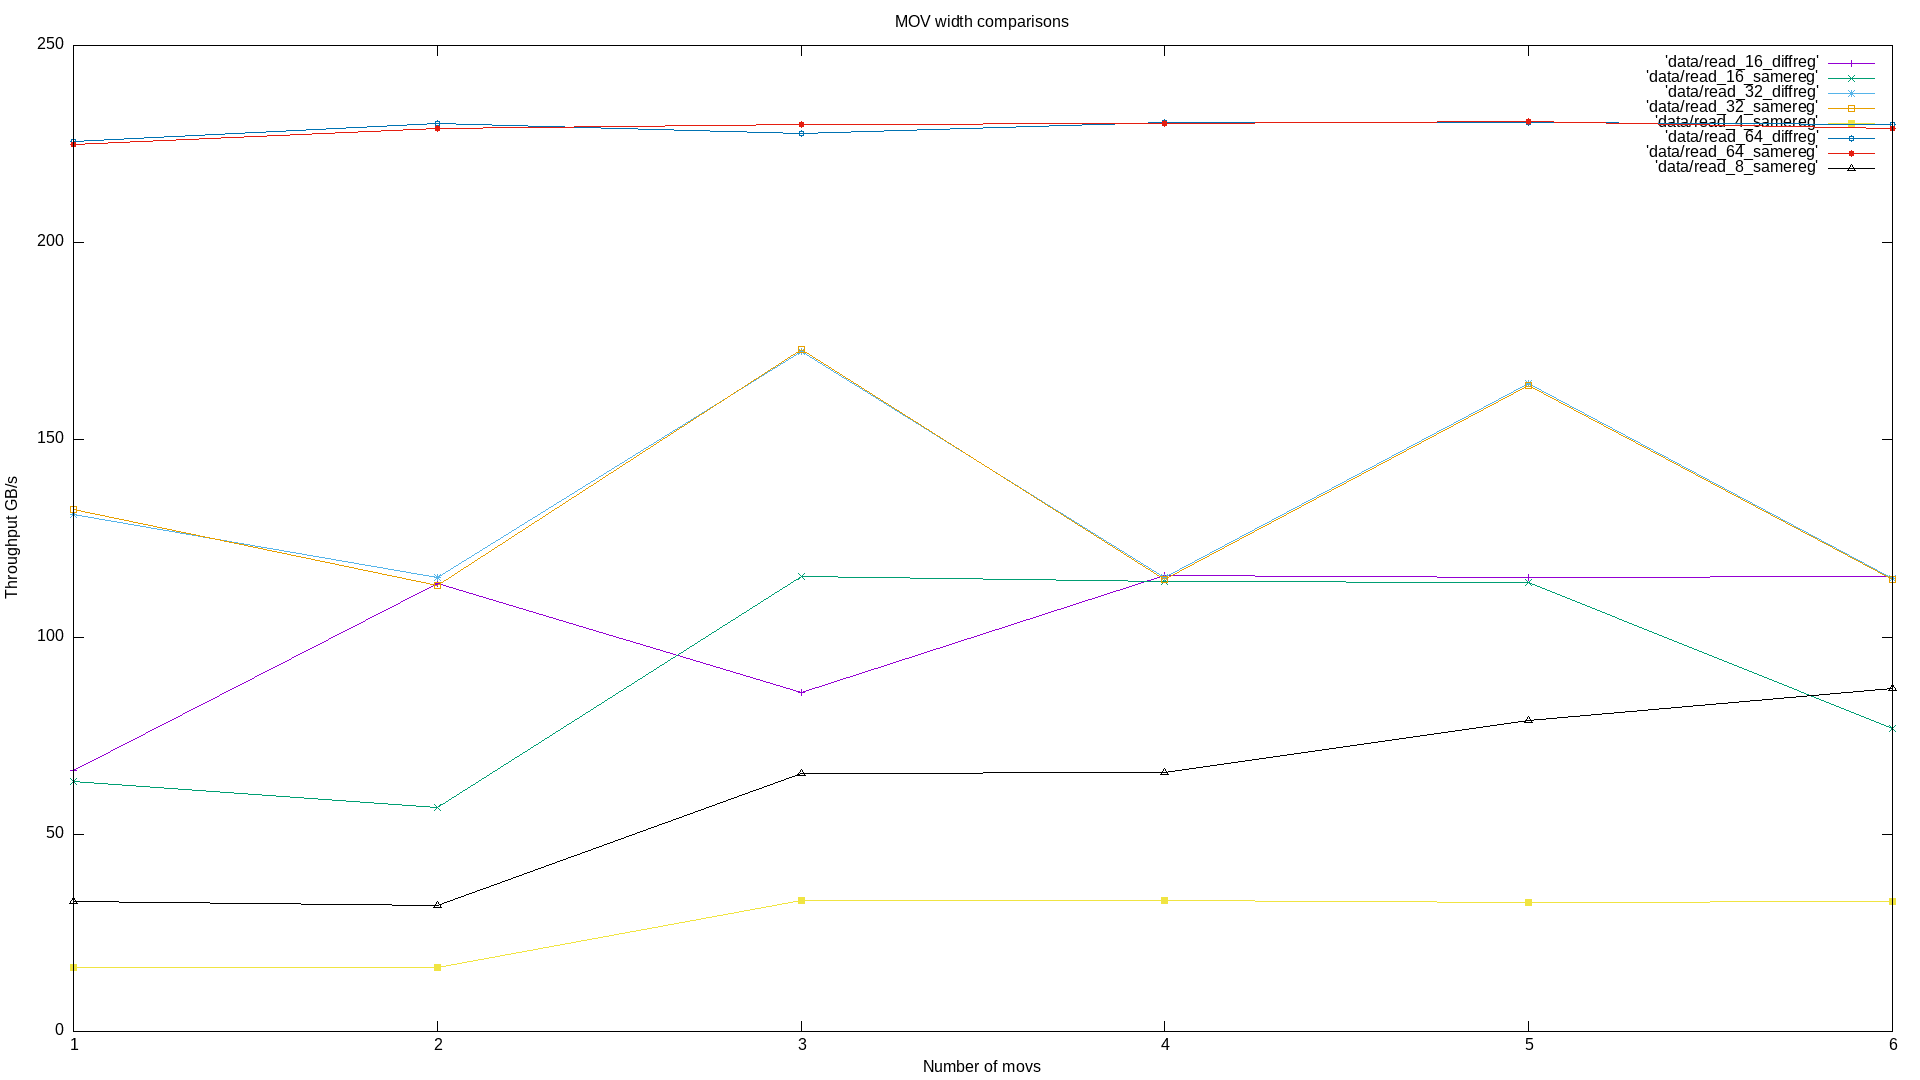
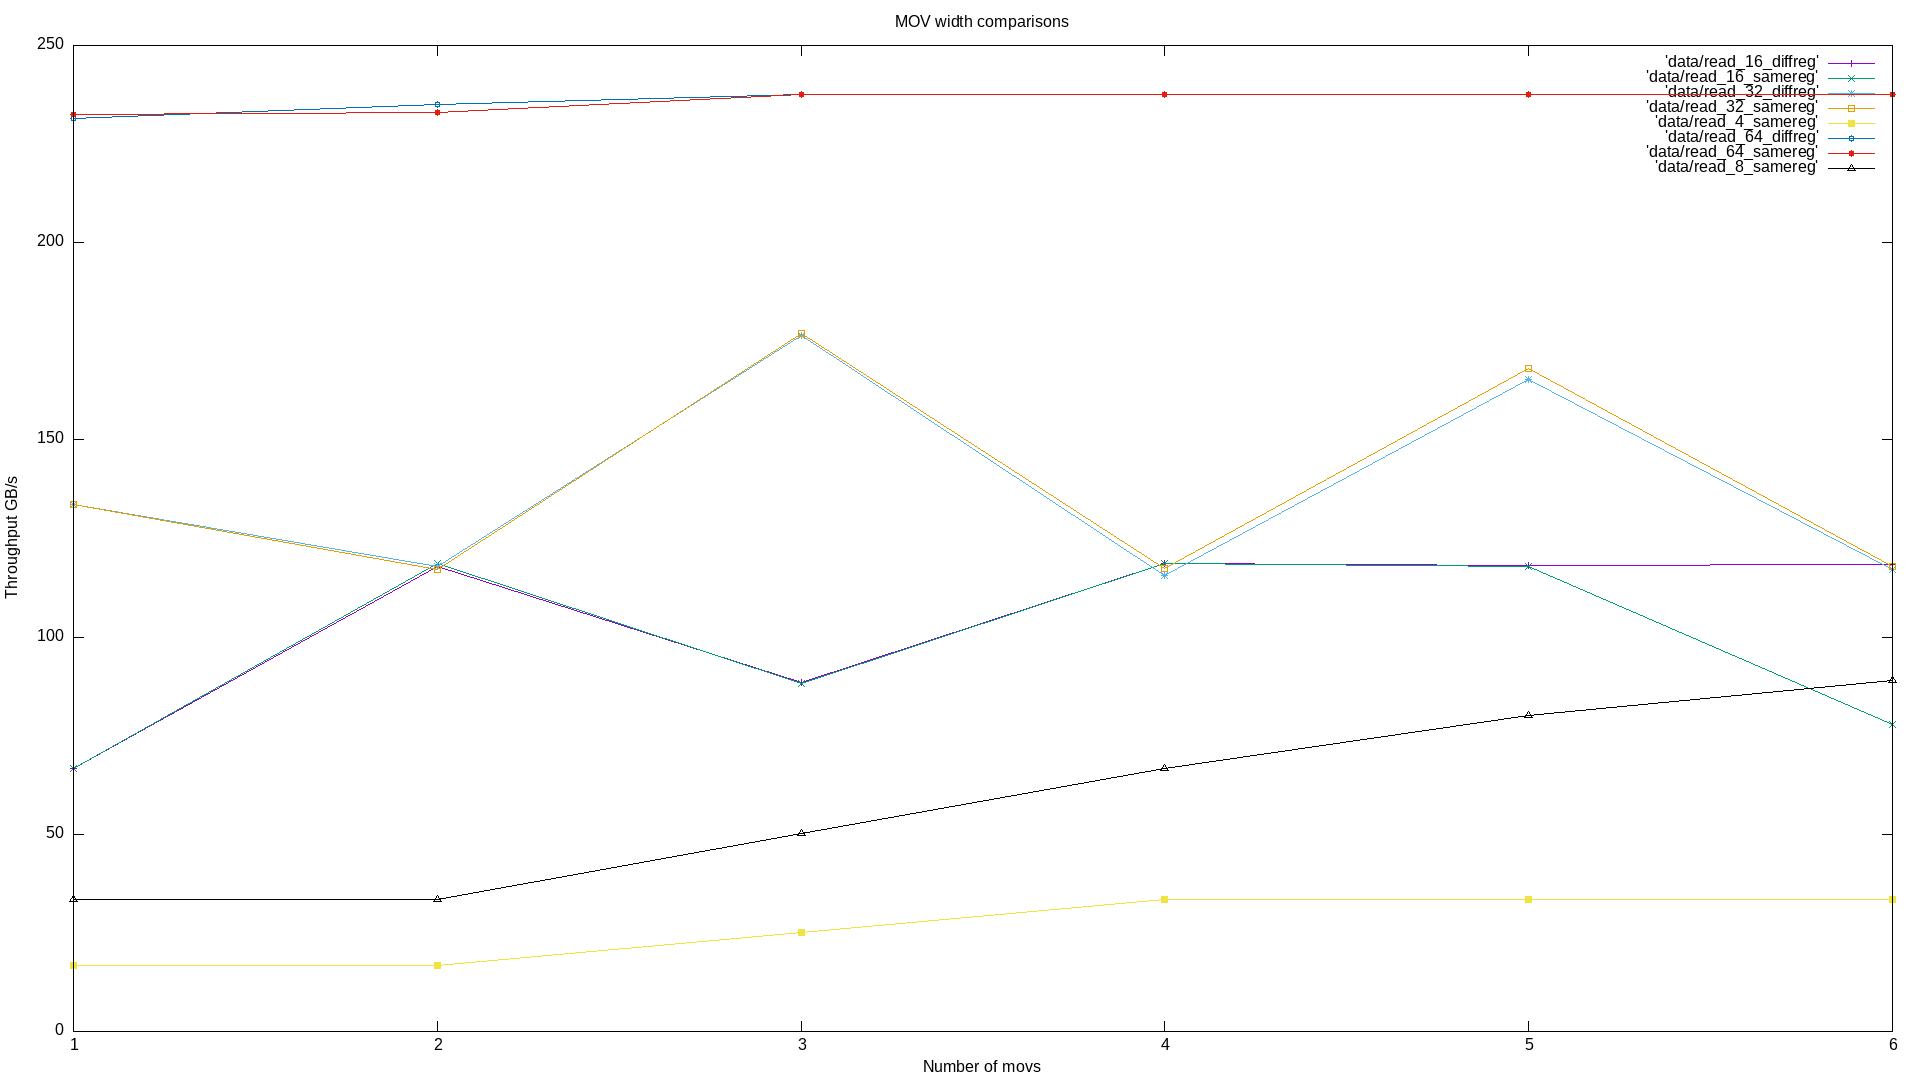
Update without using timeloop

diff --git a/03_cpu/mov_size_comparison/src/main.rs b/03_cpu/mov_size_comparison/src/main.rs
@@ -2,7 +2,7 @@
 
 use std::collections::HashMap;
 use std::path::Path;
-use std::time::Duration;
+use std::time::{Duration, Instant};
 
 use rand::Rng;
 use timeloop::RepititionTester;
@@ -17,10 +17,14 @@ pub struct TestParameters {
     pub count: u64,
 }
 
-fn main() {
-    let mut rng = rand::thread_rng();
+const ALLOC_SIZE: usize = 1024 * 1024 * 1024;
+const TEST_DURATION: Duration = Duration::from_millis(250);
 
-    const ALLOC_SIZE: usize = 1024 * 1024 * 1024;
+#[cfg(feature = "timeloop")]
+fn main() {
+    println!("Running WITH timeloop...");
+
+    let mut rng = rand::thread_rng();
 
     let mut buffer = vec![0_u8; ALLOC_SIZE];
     rng.fill(&mut buffer[..]);
@@ -33,7 +37,7 @@ fn main() {
         for (func, func_name) in FUNCS.iter() {
             println!("----- {:?} -----", func_name);
 
-            let mut tester = RepititionTester::new(Duration::from_millis(2000));
+            let mut tester = RepititionTester::new(TEST_DURATION);
 
             while tester.is_testing() {
                 // Start the timer for this iteration
@@ -57,8 +61,111 @@ fn main() {
 
             results.entry(heading).or_default().push_str(&format!(
                 "{num} {:8.2}\n",
-                res.avg.bytes_per_second.unwrap() / 1024. / 1024. / 1024.
+                res.min.bytes_per_second.unwrap() / 1024. / 1024. / 1024.
             ));
+        }
+    }
+
+    let mut plot = String::new();
+
+    plot.push_str("set terminal png size 1920,1080\n");
+    plot.push_str("set output 'data.png'\n");
+    plot.push_str("set title 'MOV width comparisons'\n");
+    plot.push_str("set xlabel 'Number of movs'\n");
+    plot.push_str("set ylabel 'Throughput GB/s'\n");
+    plot.push_str("set xtics (1, 2, 3, 4, 5, 6)\n");
+
+    plot.push_str("plot ");
+
+    // Create the data directory if it doesn't exist
+    let data_dir = Path::new("data");
+    if !data_dir.exists() {
+        std::fs::create_dir(&data_dir).expect("Failed to create data directory");
+    }
+
+    let mut plots = Vec::new();
+    for (name, res) in results {
+        let name = Path::new("data").join(name);
+        std::fs::write(&name, res).unwrap();
+
+        plots.push(format!(
+            "'{}' with linespoints",
+            name.as_os_str().to_str().unwrap()
+        ));
+    }
+
+    plots.sort();
+
+    plot.push_str(&plots.join(", \\\n"));
+    plot.push('\n');
+
+    // plot.push_str("pause -1\n");
+
+    std::fs::write("data.plot", plot).unwrap();
+}
+
+/// Calculate the OS frequency by timing a small timeout using `rdtsc`
+fn calculate_os_frequency() -> f64 {
+    let timeout = Duration::from_millis(100);
+    let start = Instant::now();
+    let clock_start = unsafe { core::arch::x86_64::_rdtsc() };
+    while start.elapsed() < timeout {}
+    let clock_end = unsafe { core::arch::x86_64::_rdtsc() };
+
+    (clock_end - clock_start) as f64 / timeout.as_secs_f64()
+}
+
+#[cfg(not(feature = "timeloop"))]
+fn main() {
+    println!("Running manual WITHOUT timeloop...");
+
+    let mut rng = rand::thread_rng();
+
+    const ALLOC_SIZE: usize = 1024 * 1024 * 1024;
+
+    let mut buffer = vec![0_u8; ALLOC_SIZE];
+    rng.fill(&mut buffer[..]);
+
+    let buffer = buffer;
+
+    let mut results: HashMap<&str, String> = HashMap::new();
+    let mut timers = [u64::MAX; FUNCS.len()];
+
+    let os_freq = calculate_os_frequency();
+
+    for _ in 0..1 {
+        for (index, (func, func_name)) in FUNCS.iter().enumerate() {
+            println!("----- {:?} -----", func_name);
+
+            let start = Instant::now();
+
+            while start.elapsed() < TEST_DURATION {
+                let start = unsafe { core::arch::x86_64::_rdtsc() };
+
+                // Execute the function in question
+                (*func)(buffer.as_slice());
+
+                let elapsed = unsafe { core::arch::x86_64::_rdtsc() } - start;
+
+                // Keep the minimum time spent
+                timers[index] = elapsed.min(timers[index]);
+            }
+
+            dbg!(&timers[index]);
+
+            let mut iter = func_name.split('x');
+            let heading = iter.next().unwrap();
+            let num = iter.next().unwrap();
+
+            let elapsed_time_sec = timers[index] as f64 / os_freq;
+            let gbytes_per_sec = ALLOC_SIZE as f64 / elapsed_time_sec / 1024. / 1024. / 1024.;
+
+            results
+                .entry(heading)
+                .or_default()
+                .push_str(&format!("{num} {:8.2}\n", gbytes_per_sec));
+
+            timers[index] = 0;
         }
     }
 
